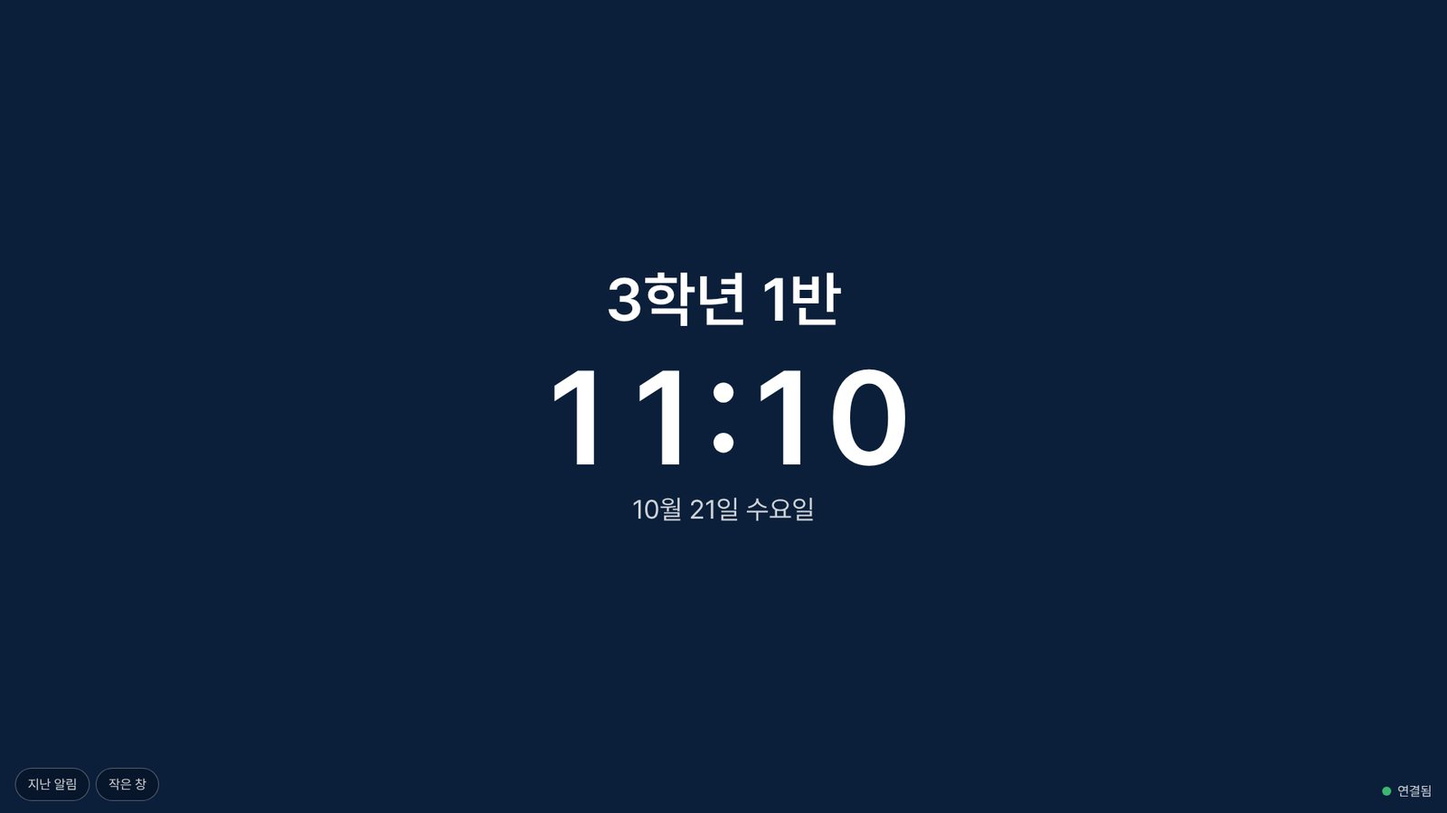
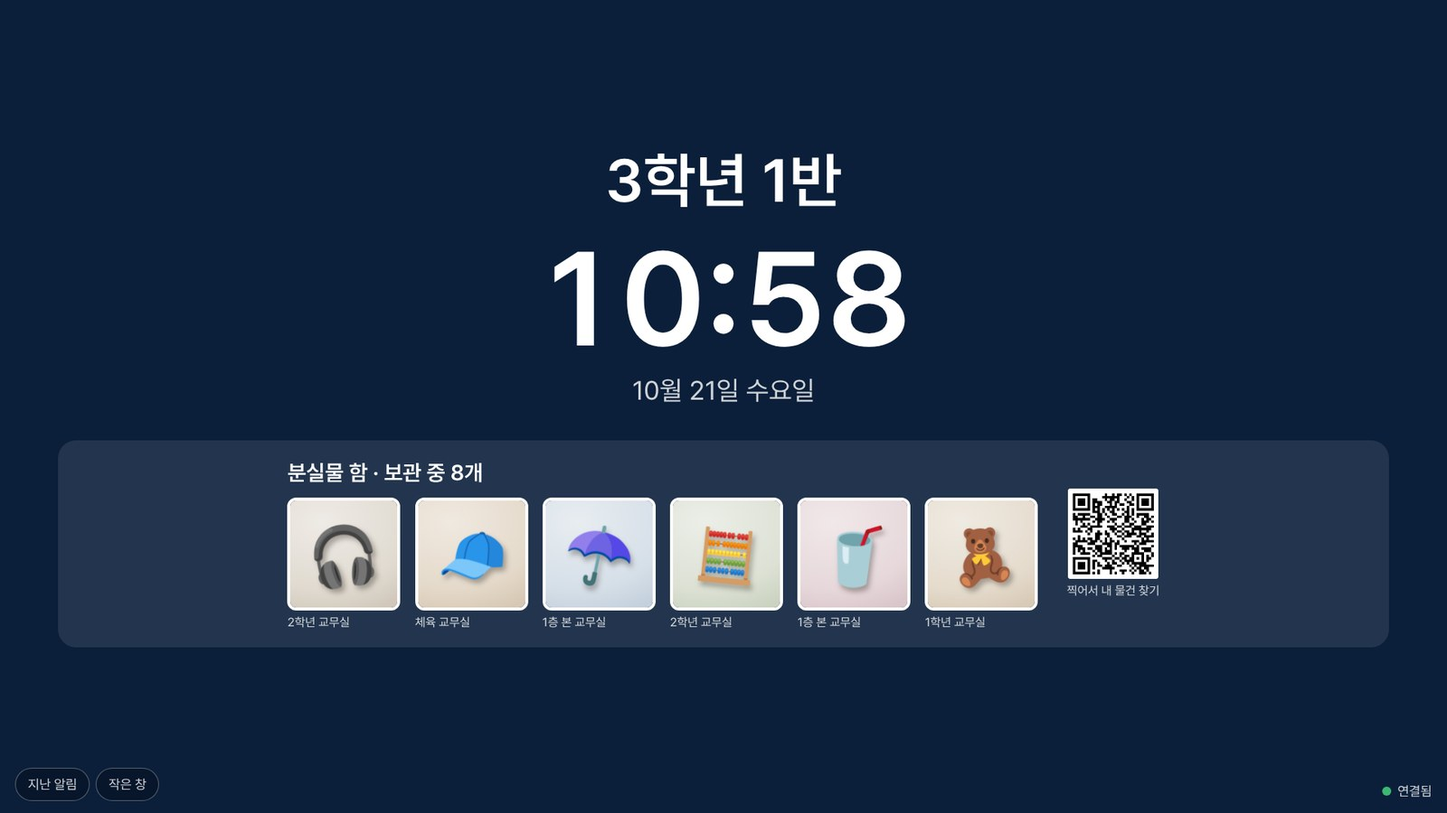
분실물 함 학생 보기·칠판 분실물 띠, 손 서명 그리기 고침 반영(10월 17일 저녁)
- 다시 찍은 화면: 분실물 함(학생용 보기 링크·보관 장소 처음 값), 학생용 보기(새),
  칠판 대기 화면 분실물 띠, 손 서명 그리기(새), 홈 카드 연파랑 띠, 구기대회 이긴 점수 파랑
- 연수 발표: 분실물 함과 구기대회를 두 장면으로 나눔, 실습 8에 서명 그리기 화면,
  교실 칠판 장면 「평소」에 분실물 띠
- 소개 발표·둘러보기: 「분실물 함」 장면 새로(학생은 칠판·QR, 특징은 안 보임),
  원칙 「사생활」에 한 줄
- 따라하기: 8부(학교 생활·마무리)도 싣기(첫 화면의 분실물 함 링크가 닿지 않던 것),
  안 될 때 두 가지(손 서명, 학생이 분실물을 찾으러 왔을 때)

Claude-Session: https://claude.ai/code/session_01PnRkvZMXyWQ3PDuECRmpn5

Changed region(s): [[0.1875, 0.3111, 0.8125, 0.7778], [0.4062, 0.1867, 0.5938, 0.28]]

diff --git a/img/rects.js b/img/rects.js
@@ -1,3 +1,3 @@
 /* 화면마다 동그라미 칠 자리(412×864 기준, 찍을 때 잰 값) — R(화면, 키) */
-window.SHOT_RECTS = {"ai-deep": {"answer": [16, 238, 323, 492], "deep": [219, 876, 177, 36], "feedback": [20, 736, 42, 36], "question": [73, 70, 323, 158]}, "ai-deep-ready": {"deep": [274, 497, 122, 36], "file": [16, 405, 380, 38], "input": [68, 545, 249, 70], "send": [325, 567, 71, 48]}, "ai-home": {"chip_first": [31, 252, 100, 36], "chips": [31, 252, 350, 120], "clip": [16, 475, 44, 48], "deep": [219, 405, 177, 36], "input": [68, 453, 249, 70], "send": [325, 475, 71, 48], "tab_ai": [166, 792, 81, 44]}, "ai-lesson": {"body": [31, 518, 350, 482], "card": [16, 270, 380, 844], "head": [17, 271, 378, 42], "question": [73, 70, 323, 75]}, "ai-lesson-2": {"body": [31, 46, 350, 482], "button": [31, 560, 117, 40]}, "ai-letter": {"body": [31, 643, 350, 274], "card": [16, 298, 380, 681], "head": [17, 299, 378, 42], "question": [73, 70, 323, 75]}, "ai-letter-2": {"body": [31, 276, 350, 274], "button": [31, 560, 159, 40], "feedback": [20, 619, 42, 36]}, "ai-library": {"answer": [16, 128, 323, 464], "feedback": [20, 598, 42, 36], "links": [92, 473, 39, 20], "question": [118, 70, 278, 48]}, "ai-nep": {"button": [31, 777, 87, 40], "card": [16, 298, 380, 532], "edit": [130, 788, 96, 17], "people": [31, 614, 350, 89], "question": [73, 70, 323, 75]}, "ai-number": {"button": [31, 492, 100, 40], "card": [16, 298, 380, 246], "question": [73, 70, 323, 75]}, "ai-parent": {"answer": [16, 156, 323, 409], "feedback": [20, 570, 42, 36], "question": [73, 70, 323, 75]}, "ai-repair": {"button": [31, 597, 100, 40], "card": [16, 270, 380, 379], "head": [17, 271, 378, 42], "question": [73, 70, 323, 75]}, "ai-swap": {"calendar": [31, 380, 82, 15], "card": [16, 326, 380, 752], "question": [73, 70, 323, 75]}, "alerts": {}, "board-alert": {"all": [175, 577, 90, 40], "fire": [150, 239, 113, 56], "kind": [266, 142, 112, 44], "offline": [31, 678, 350, 17], "presets": [31, 239, 350, 118], "submit": [31, 701, 350, 50]}, "board-alert-confirm": {"cancel": [16, 804, 136, 44], "go": [160, 804, 236, 44], "sheet": [0, 0, 412, 864], "text": [16, 717, 380, 75], "where": [16, 662, 380, 43]}, "board-grades": {"g1": [31, 539, 113, 40], "g2": [150, 539, 113, 40], "offline": [31, 610, 350, 17], "submit": [31, 633, 350, 50]}, "board-memo": {"body": [31, 239, 350, 86], "kind": [150, 142, 112, 44], "note": [31, 340, 350, 35], "submit": [31, 586, 350, 50]}, "board-pick": {"all": [16, 532, 380, 44], "done": [16, 798, 380, 50], "grid": [16, 588, 380, 94], "legend": [16, 694, 380, 35], "off": [170, 638, 71, 44], "tabs": [16, 477, 380, 43]}, "board-send": {"body": [31, 239, 350, 110], "kinds": [31, 139, 350, 50], "mine": [271, 493, 110, 40], "options": [31, 364, 350, 78], "submit": [31, 610, 350, 50], "what": [31, 209, 350, 23], "where": [31, 462, 350, 117]}, "board-sent": {"end": [31, 420, 52, 36], "live": [84, 392, 37, 17], "reserve": [294, 129, 87, 17], "tabs": [240, 60, 141, 42]}, "board-voice-rec": {"status": [43, 342, 326, 92], "stop": [283, 394, 86, 40]}, "calendar": {"today": [196, 394, 20, 20]}, "calendar-list": {}, "forms": {"trip": [17, 110, 378, 56]}, "home": {"bell": [360, 22, 44, 44], "changed": [339, 669, 29, 16], "hero": [16, 106, 380, 66], "nep": [61, 503, 179, 26], "now": [160, 611, 33, 16], "tabAi": [166, 792, 81, 44], "tabMore": [327, 792, 81, 61], "tabNep": [85, 792, 81, 61], "tiles": [275, 354, 121, 94], "tt": [31, 569, 93, 21]}, "home-3": {"alerts": [31, 16, 55, 21], "meal": [31, 376, 26, 21], "upcoming": [31, 533, 81, 21]}, "home-sports": {"card": [16, 16, 380, 493], "link": [16, 16, 380, 493]}, "library": {"chips": [72, 214, 52, 39], "pinned": [16, 282, 380, 95], "search": [52, 169, 331, 23], "write": [310, 720, 86, 48]}, "library-new": {"kind": [206, 440, 172, 36], "section": [31, 120, 350, 48], "submit": [31, 624, 350, 50], "title": [31, 210, 350, 48]}, "library-post": {"download": [31, 211, 350, 44]}, "library-search": {"result": [16, 282, 380, 95], "search": [52, 169, 331, 23]}, "login": {"go": [58, 554, 296, 50], "name": [58, 299, 296, 48], "pw": [58, 467, 296, 48]}, "lost-found": {"add": [126, 680, 161, 54], "box": [16, 77, 380, 680], "item": [184, 369, 81, 81], "returned": [281, 16, 115, 45]}, "lost-found-add": {"photo": [16, 157, 380, 212], "submit": [149, 875, 247, 45]}, "lost-found-detail": {"back": [16, 804, 380, 44], "info": [16, 542, 380, 138]}, "meals": {}, "more-2": {"lost": [17, 431, 378, 56], "noti": [17, 525, 378, 56], "sign": [17, 226, 378, 56], "signature": [17, 581, 378, 56]}, "nep-detail-ack": {"ack": [31, 464, 350, 50], "events": [31, 315, 350, 126], "urgent": [94, 91, 37, 22]}, "nep-detail-recv": {"attach": [31, 377, 350, 48], "done": [31, 448, 350, 50], "due": [31, 192, 350, 37]}, "nep-detail-sent": {"board": [43, 666, 326, 8], "due": [31, 192, 350, 37], "events": [31, 437, 350, 147]}, "nep-detail-sent-board": {"downloadAll": [253, 524, 128, 44], "left": [31, 398, 350, 114], "more": [31, 854, 68, 44], "progress": [31, 310, 350, 76], "remind": [31, 468, 350, 44]}, "nep-inbox": {"ackButton": [328, 401, 53, 44], "fab": [281, 720, 115, 48], "segments": [19, 80, 187, 44], "tabNep": [85, 792, 81, 61], "todo": [17, 140, 378, 527]}, "nep-me-bottom": {"due": [31, 335, 350, 48], "send": [31, 656, 350, 50]}, "nep-me-new": {"audience": [31, 91, 350, 23], "body": [31, 446, 350, 170], "kind": [208, 221, 83, 44], "title": [31, 353, 350, 48]}, "nep-new-due": {"due": [31, 242, 350, 48], "hint": [31, 298, 350, 111], "more": [31, 425, 350, 123], "sendAt": [31, 592, 350, 48]}, "nep-picker": {"chipAll": [61, 209, 95, 40], "chipHeads": [162, 209, 82, 40], "chipLeads": [250, 209, 112, 40], "chips": [16, 209, 39, 40], "deptCheck": [16, 734, 40, 48], "recent": [16, 259, 380, 271], "search": [16, 155, 380, 44], "tree": [16, 530, 380, 1032]}, "nep-picker-picked": {"done": [338, 808, 58, 44], "tokens": [16, 259, 380, 36]}, "nep-picker-search": {"found": [16, 685, 380, 71], "search": [16, 581, 380, 44]}, "nep-picker-tree": {"dept": [16, 118, 40, 48], "me": [16, 359, 380, 48], "subjects": [16, 897, 40, 48]}, "nep-sent": {"active": [17, 250, 378, 318], "firstActive": [17, 288, 378, 99], "scheduled": [17, 140, 378, 109], "segments": [206, 80, 187, 44]}, "notifications-off": {"nurse": [333, 308, 48, 28], "on": [62, 147, 319, 44]}, "notifications-on": {"nurse": [333, 390, 48, 28], "test": [63, 177, 318, 44]}, "nurse": {"open": [31, 139, 350, 50]}, "password": {"go": [31, 297, 350, 50], "new": [31, 121, 350, 48]}, "pg-month": {"row": [16, 392, 380, 118], "summary": [16, 257, 380, 123], "toggle": [16, 139, 380, 54]}, "pg-today": {"card": [16, 229, 380, 142], "date": [68, 139, 216, 44], "save": [309, 703, 87, 44], "segment": [16, 77, 380, 50]}, "record": {"privacy": [16, 44, 274, 17]}, "record-activities": {"activities": [31, 174, 350, 429], "subject": [31, 91, 350, 48]}, "record-input": {"count": [31, 416, 350, 48], "tabs": [16, 95, 380, 50], "upload": [31, 500, 350, 23]}, "record-kinds": {"gwasetuk": [31, 247, 69, 21]}, "record-options": {"generate": [31, 390, 350, 50], "length": [31, 62, 350, 23], "model": [31, 307, 350, 48]}, "record-result": {"basis": [31, 533, 350, 113], "result": [31, 330, 350, 166]}, "sign-file": {"doc": [312, 103, 56, 21], "sign": [31, 181, 252, 48]}, "sign-list": {"file": [30, 89, 157, 26], "meeting": [226, 90, 155, 26], "todo": [16, 166, 380, 23]}, "sign-meeting": {"hand": [295, 141, 71, 17], "roster": [17, 234, 378, 464], "sign": [31, 126, 252, 48]}, "sign-meeting-new": {"chips": [76, 455, 95, 40], "picker": [31, 401, 350, 44], "title": [31, 120, 350, 48], "when": [31, 212, 169, 48]}, "sign-meeting-new-bottom": {"group": [71, 452, 310, 48], "me": [31, 617, 350, 21], "members": [31, 511, 350, 62], "submit": [31, 705, 350, 44]}, "sign-mine": {}, "signature": {"default": [267, 96, 112, 21], "hand": [16, 77, 380, 302], "stamp": [16, 391, 380, 302]}, "signature-empty": {"draw": [33, 318, 100, 44], "stamp": [33, 633, 130, 44]}, "sports": {}, "sub-calc": {"calendar": [31, 466, 350, 21], "date": [31, 316, 169, 44], "go": [31, 501, 350, 44], "periods": [31, 374, 350, 113], "reason": [212, 316, 169, 44], "tabs": [16, 77, 380, 50], "teacher": [31, 229, 350, 44]}, "sub-dates": {"byHand": [278, 520, 71, 17], "dates": [43, 117, 255, 68], "request": [31, 508, 235, 40], "tools": [31, 460, 350, 36]}, "sub-inbox": {"pending": [16, 264, 380, 21], "proxy": [31, 599, 220, 40], "register": [16, 139, 380, 44], "rooms": [16, 191, 380, 65], "tab": [268, 80, 125, 44]}, "sub-requests": {"accept": [31, 611, 185, 40], "byHand": [228, 623, 71, 17], "card": [16, 407, 380, 257], "reject": [307, 611, 56, 40], "tab": [206, 80, 187, 44]}, "sub-result": {"calendar": [31, 120, 350, 42], "date": [43, 317, 279, 40], "firstStep": [31, 264, 350, 23], "plan1": [31, 207, 350, 49]}, "today": {"board": [31, 90, 52, 21], "days": [178, 271, 42, 23], "mynep": [31, 926, 42, 21]}, "today-2": {"changes": [17, 302, 378, 46], "events": [31, 72, 69, 21]}, "tt-class": {"picker": [16, 135, 380, 44], "tabs": [16, 77, 380, 50]}, "tt-free": {"name": [31, 395, 60, 40], "rooms": [16, 212, 380, 123], "teachers": [16, 347, 380, 343]}, "tt-free-nep": {}, "tt-my": {"away": [191, 516, 61, 87], "band": [191, 226, 61, 87], "changed": [191, 606, 61, 68], "pending": [322, 317, 61, 68], "picker": [16, 135, 380, 44], "tabs": [16, 77, 380, 50], "today": [191, 389, 61, 68]}, "tt-pop": {"band": [191, 226, 61, 87], "pop": [29, 317, 354, 115]}, "weekly": {}};
+window.SHOT_RECTS = {"ai-deep": {"answer": [16, 238, 323, 492], "deep": [219, 876, 177, 36], "feedback": [20, 736, 42, 36], "question": [73, 70, 323, 158]}, "ai-deep-ready": {"deep": [274, 497, 122, 36], "file": [16, 405, 380, 38], "input": [68, 545, 249, 70], "send": [325, 567, 71, 48]}, "ai-home": {"chip_first": [31, 252, 100, 36], "chips": [31, 252, 350, 120], "clip": [16, 475, 44, 48], "deep": [219, 405, 177, 36], "input": [68, 453, 249, 70], "send": [325, 475, 71, 48], "tab_ai": [166, 792, 81, 44]}, "ai-lesson": {"body": [31, 518, 350, 482], "card": [16, 270, 380, 844], "head": [17, 271, 378, 42], "question": [73, 70, 323, 75]}, "ai-lesson-2": {"body": [31, 46, 350, 482], "button": [31, 560, 117, 40]}, "ai-letter": {"body": [31, 643, 350, 274], "card": [16, 298, 380, 681], "head": [17, 299, 378, 42], "question": [73, 70, 323, 75]}, "ai-letter-2": {"body": [31, 276, 350, 274], "button": [31, 560, 159, 40], "feedback": [20, 619, 42, 36]}, "ai-library": {"answer": [16, 128, 323, 464], "feedback": [20, 598, 42, 36], "links": [92, 473, 39, 20], "question": [118, 70, 278, 48]}, "ai-nep": {"button": [31, 777, 87, 40], "card": [16, 298, 380, 532], "edit": [130, 788, 96, 17], "people": [31, 614, 350, 89], "question": [73, 70, 323, 75]}, "ai-number": {"button": [31, 492, 100, 40], "card": [16, 298, 380, 246], "question": [73, 70, 323, 75]}, "ai-parent": {"answer": [16, 156, 323, 409], "feedback": [20, 570, 42, 36], "question": [73, 70, 323, 75]}, "ai-repair": {"button": [31, 597, 100, 40], "card": [16, 270, 380, 379], "head": [17, 271, 378, 42], "question": [73, 70, 323, 75]}, "ai-swap": {"calendar": [31, 380, 82, 15], "card": [16, 326, 380, 752], "question": [73, 70, 323, 75]}, "alerts": {}, "board-alert": {"all": [175, 577, 90, 40], "fire": [150, 239, 113, 56], "kind": [266, 142, 112, 44], "offline": [31, 678, 350, 17], "presets": [31, 239, 350, 118], "submit": [31, 701, 350, 50]}, "board-alert-confirm": {"cancel": [16, 804, 136, 44], "go": [160, 804, 236, 44], "sheet": [0, 0, 412, 864], "text": [16, 717, 380, 75], "where": [16, 662, 380, 43]}, "board-grades": {"g1": [31, 539, 113, 40], "g2": [150, 539, 113, 40], "offline": [31, 610, 350, 17], "submit": [31, 633, 350, 50]}, "board-memo": {"body": [31, 239, 350, 86], "kind": [150, 142, 112, 44], "note": [31, 340, 350, 35], "submit": [31, 586, 350, 50]}, "board-pick": {"all": [16, 532, 380, 44], "done": [16, 798, 380, 50], "grid": [16, 588, 380, 94], "legend": [16, 694, 380, 35], "off": [170, 638, 71, 44], "tabs": [16, 477, 380, 43]}, "board-send": {"body": [31, 239, 350, 110], "kinds": [31, 139, 350, 50], "mine": [271, 493, 110, 40], "options": [31, 364, 350, 78], "submit": [31, 610, 350, 50], "what": [31, 209, 350, 23], "where": [31, 462, 350, 117]}, "board-sent": {"end": [31, 420, 52, 36], "live": [84, 392, 37, 17], "reserve": [294, 129, 87, 17], "tabs": [240, 60, 141, 42]}, "board-voice-rec": {"status": [43, 342, 326, 92], "stop": [283, 394, 86, 40]}, "calendar": {"today": [196, 394, 20, 20]}, "calendar-list": {}, "forms": {"trip": [17, 110, 378, 56]}, "found": {"first": [16, 115, 184, 281], "grid": [16, 115, 380, 1162], "head": [16, 24, 380, 75], "place": [28, 369, 160, 17]}, "home": {"bell": [360, 22, 44, 44], "changed": [339, 669, 29, 16], "hero": [16, 106, 380, 66], "nep": [61, 503, 179, 26], "now": [160, 611, 33, 16], "tabAi": [166, 792, 81, 44], "tabMore": [327, 792, 81, 61], "tabNep": [85, 792, 81, 61], "tiles": [275, 354, 121, 94], "tt": [31, 569, 93, 21]}, "home-3": {"alerts": [31, 16, 55, 21], "meal": [31, 376, 26, 21], "upcoming": [31, 533, 81, 21]}, "home-sports": {"card": [16, 16, 380, 493], "link": [16, 16, 380, 493]}, "library": {"chips": [72, 214, 52, 39], "pinned": [16, 282, 380, 95], "search": [52, 169, 331, 23], "write": [310, 720, 86, 48]}, "library-new": {"kind": [206, 440, 172, 36], "section": [31, 120, 350, 48], "submit": [31, 624, 350, 50], "title": [31, 210, 350, 48]}, "library-post": {"download": [31, 211, 350, 44]}, "library-search": {"result": [16, 282, 380, 95], "search": [52, 169, 331, 23]}, "login": {"go": [58, 554, 296, 50], "name": [58, 299, 296, 48], "pw": [58, 467, 296, 48]}, "lost-found": {"add": [126, 680, 161, 54], "box": [16, 77, 380, 680], "item": [185, 368, 81, 81], "note": [16, 757, 380, 46], "returned": [281, 16, 115, 45], "student": [272, 769, 55, 14]}, "lost-found-2": {"add": [126, 640, 161, 54], "note": [16, 717, 380, 46], "student": [272, 729, 55, 14]}, "lost-found-add": {"photo": [16, 157, 380, 212], "place": [16, 564, 380, 75], "submit": [149, 875, 247, 45]}, "lost-found-detail": {"back": [16, 804, 380, 44], "info": [16, 542, 380, 138]}, "meals": {}, "more-2": {"lost": [17, 431, 378, 56], "noti": [17, 525, 378, 56], "sign": [17, 226, 378, 56], "signature": [17, 581, 378, 56]}, "nep-detail-ack": {"ack": [31, 464, 350, 50], "events": [31, 315, 350, 126], "urgent": [94, 91, 37, 22]}, "nep-detail-recv": {"attach": [31, 377, 350, 48], "done": [31, 448, 350, 50], "due": [31, 192, 350, 37]}, "nep-detail-sent": {"board": [43, 666, 326, 8], "due": [31, 192, 350, 37], "events": [31, 437, 350, 147]}, "nep-detail-sent-board": {"downloadAll": [253, 524, 128, 44], "left": [31, 398, 350, 114], "more": [31, 854, 68, 44], "progress": [31, 310, 350, 76], "remind": [31, 468, 350, 44]}, "nep-inbox": {"ackButton": [328, 401, 53, 44], "fab": [281, 720, 115, 48], "segments": [19, 80, 187, 44], "tabNep": [85, 792, 81, 61], "todo": [17, 140, 378, 527]}, "nep-me-bottom": {"due": [31, 335, 350, 48], "send": [31, 656, 350, 50]}, "nep-me-new": {"audience": [31, 91, 350, 23], "body": [31, 446, 350, 170], "kind": [208, 221, 83, 44], "title": [31, 353, 350, 48]}, "nep-new-due": {"due": [31, 242, 350, 48], "hint": [31, 298, 350, 111], "more": [31, 425, 350, 123], "sendAt": [31, 592, 350, 48]}, "nep-picker": {"chipAll": [61, 209, 95, 40], "chipHeads": [162, 209, 82, 40], "chipLeads": [250, 209, 112, 40], "chips": [16, 209, 39, 40], "deptCheck": [16, 734, 40, 48], "recent": [16, 259, 380, 271], "search": [16, 155, 380, 44], "tree": [16, 530, 380, 1032]}, "nep-picker-picked": {"done": [338, 808, 58, 44], "tokens": [16, 259, 380, 36]}, "nep-picker-search": {"found": [16, 685, 380, 71], "search": [16, 581, 380, 44]}, "nep-picker-tree": {"dept": [16, 118, 40, 48], "me": [16, 359, 380, 48], "subjects": [16, 897, 40, 48]}, "nep-sent": {"active": [17, 250, 378, 318], "firstActive": [17, 288, 378, 99], "scheduled": [17, 140, 378, 109], "segments": [206, 80, 187, 44]}, "notifications-off": {"nurse": [333, 308, 48, 28], "on": [62, 147, 319, 44]}, "notifications-on": {"nurse": [333, 390, 48, 28], "test": [63, 177, 318, 44]}, "nurse": {"open": [31, 139, 350, 50]}, "password": {"go": [31, 297, 350, 50], "new": [31, 121, 350, 48]}, "pg-month": {"row": [16, 392, 380, 118], "summary": [16, 257, 380, 123], "toggle": [16, 139, 380, 54]}, "pg-today": {"card": [16, 229, 380, 142], "date": [68, 139, 216, 44], "save": [309, 703, 87, 44], "segment": [16, 77, 380, 50]}, "record": {"privacy": [16, 44, 274, 17]}, "record-activities": {"activities": [31, 174, 350, 429], "subject": [31, 91, 350, 48]}, "record-input": {"count": [31, 416, 350, 48], "tabs": [16, 95, 380, 50], "upload": [31, 500, 350, 23]}, "record-kinds": {"gwasetuk": [31, 247, 69, 21]}, "record-options": {"generate": [31, 390, 350, 50], "length": [31, 62, 350, 23], "model": [31, 307, 350, 48]}, "record-result": {"basis": [31, 533, 350, 113], "result": [31, 330, 350, 166]}, "sign-file": {"doc": [312, 103, 56, 21], "sign": [31, 181, 252, 48]}, "sign-list": {"file": [30, 89, 157, 26], "meeting": [226, 90, 155, 26], "todo": [16, 166, 380, 23]}, "sign-meeting": {"hand": [295, 141, 71, 17], "roster": [17, 234, 378, 464], "sign": [31, 126, 252, 48]}, "sign-meeting-new": {"chips": [76, 455, 95, 40], "picker": [31, 401, 350, 44], "title": [31, 120, 350, 48], "when": [31, 212, 169, 48]}, "sign-meeting-new-bottom": {"group": [71, 452, 310, 48], "me": [31, 617, 350, 21], "members": [31, 511, 350, 62], "submit": [31, 705, 350, 44]}, "sign-mine": {}, "signature": {"default": [267, 96, 112, 21], "hand": [16, 77, 380, 302], "stamp": [16, 391, 380, 302]}, "signature-draw": {"pad": [17, 567, 378, 224], "save": [338, 804, 58, 44]}, "signature-empty": {"draw": [33, 318, 100, 44], "stamp": [33, 633, 130, 44]}, "sports": {"bracket": [16, 77, 380, 262], "match": [29, 394, 354, 129], "rounds": [98, 352, 50, 32], "score": [116, 176, 17, 14]}, "sub-calc": {"calendar": [31, 466, 350, 21], "date": [31, 316, 169, 44], "go": [31, 501, 350, 44], "periods": [31, 374, 350, 113], "reason": [212, 316, 169, 44], "tabs": [16, 77, 380, 50], "teacher": [31, 229, 350, 44]}, "sub-dates": {"byHand": [278, 520, 71, 17], "dates": [43, 117, 255, 68], "request": [31, 508, 235, 40], "tools": [31, 460, 350, 36]}, "sub-inbox": {"pending": [16, 264, 380, 21], "proxy": [31, 599, 220, 40], "register": [16, 139, 380, 44], "rooms": [16, 191, 380, 65], "tab": [268, 80, 125, 44]}, "sub-requests": {"accept": [31, 611, 185, 40], "byHand": [228, 623, 71, 17], "card": [16, 407, 380, 257], "reject": [307, 611, 56, 40], "tab": [206, 80, 187, 44]}, "sub-result": {"calendar": [31, 120, 350, 42], "date": [43, 317, 279, 40], "firstStep": [31, 264, 350, 23], "plan1": [31, 207, 350, 49]}, "today": {"board": [31, 90, 52, 21], "days": [178, 271, 42, 23], "mynep": [31, 926, 42, 21]}, "today-2": {"changes": [17, 302, 378, 46], "events": [31, 72, 69, 21]}, "tt-class": {"picker": [16, 135, 380, 44], "tabs": [16, 77, 380, 50]}, "tt-free": {"name": [31, 395, 60, 40], "rooms": [16, 212, 380, 123], "teachers": [16, 347, 380, 343]}, "tt-free-nep": {}, "tt-my": {"away": [191, 516, 61, 87], "band": [191, 226, 61, 87], "changed": [191, 606, 61, 68], "pending": [322, 317, 61, 68], "picker": [16, 135, 380, 44], "tabs": [16, 77, 380, 50], "today": [191, 389, 61, 68]}, "tt-pop": {"band": [191, 226, 61, 87], "pop": [29, 317, 354, 115]}, "weekly": {}};
 window.R = function (s, k) { var a = (window.SHOT_RECTS[s] || {})[k]; if (!a) { if (window.console) console.warn('rect 없음', s, k); return null; } return a; };

diff --git a/scenes.js b/scenes.js
@@ -18,7 +18,7 @@
     { n: 5, name: "AI에게 부탁하기", color: "#b49cf2", isNew: true },
     { n: 6, name: "세특 도우미", color: "#e59a7a" },
     { n: 7, name: "전자칠판·자료실", color: "#79c6d9" },
-    { n: 8, name: "마무리", color: "#8fd0ff" }
+    { n: 8, name: "학교 생활·마무리", color: "#8fd0ff" }
   ]);
 
   // ── 장면 전용 스타일 ──
@@ -566,7 +566,7 @@
     ["5부", "AI 학습지·깊게 생각", "<b>학습지·퀴즈를 한글 파일</b>로, <b>깊게 생각하기</b>(하루 5번), 학부모 답장 초안."],
     ["1부", "AI가 먼저 챙겨요", "금요일 3시 <b>다음 주 미리 보기</b>, 평일 3시 반 <b>공유 드라이브 새 문서</b> 요약."],
     ["7부", "칠판 음성·자동 숨김", "<b>30초 음성 안내</b>, 여러 학년 함께, 수업 시작 30초 뒤 <b>칠판이 저절로 숨기</b>."],
-    ["8부", "분실물 함·구기대회", "사진이 <b>둥둥 떠다니는</b> 분실물 함, 대진표와 <b>경기 알림</b>."]
+    ["8부", "분실물 함·구기대회", "<b>둥둥 떠다니는</b> 분실물 함, 학생은 <b>칠판·QR</b>로. 대진표와 <b>경기 알림</b>."]
   ];
   D.add({
     id: "whatsnew", part: 0, label: "10월 셋째 주 새 기능", kind: "light", min: 1.2, isNew: true,
@@ -1006,12 +1006,13 @@
     chips: [{ t: "실습 8 · 서명" }, { t: "2분", c: "ghost" }], title: "내 서명 등록하기",
     steps: [
       { t: '더보기 맨 아래 <span class="q">「설정」</span>의 <span class="k">내 서명</span>', s: 0, r: R("more-2", "signature") },
-      { t: '<span class="k">서명 그리기</span>: 손가락으로 그리고 저장(가로로 돌리면 넓게)', s: 1, r: R("signature-empty", "draw"), z: 1.9 },
+      { t: '<span class="k">서명 그리기</span>를 누르고', s: 1, r: R("signature-empty", "draw"), z: 1.9 },
+      { t: '손가락으로 그리고 <span class="k">저장</span>(가로로 돌리면 넓게)', s: 2, r: R("signature-draw", "pad") },
       { t: '도장이 있으면 <span class="k">도장 사진 올리기</span>(흰 바탕은 저절로 지워짐)', s: 1, r: R("signature-empty", "stamp"), z: 1.9 },
-      { t: '<span class="q">「문서에 기본으로 씀」</span>이 붙은 것이 서명란에 들어갑니다', s: 2, r: R("signature", "default"), z: 1.95 }
+      { t: '<span class="q">「문서에 기본으로 씀」</span>이 붙은 것이 서명란에 들어갑니다', s: 3, r: R("signature", "default"), z: 1.95 }
     ],
     note: { html: "<span>서명은 <b>본인만</b> 보고 바꿀 수 있습니다(관리자도 못 봄). 서명부 화면에는 그림이 보이지 않고, 받는 PDF에만 들어갑니다.</span>" },
-    screens: [shot("more-2"), shot("signature-empty"), shot("signature")],
+    screens: [shot("more-2"), shot("signature-empty"), shot("signature-draw"), shot("signature")],
     notes: "더보기 → 내 서명. 손 서명을 그려 저장하고, 도장이 있으면 종이에 찍은 도장을 사진으로 올립니다. 둘 중 「문서에 기본으로 씀」이 붙은 것이 문서에 들어갑니다. 서명 그림은 <b>본인만 보고 바꿀 수 있고</b>, 서명부 화면에도 보이지 않고 내려받는 PDF에만 들어갑니다."
   });
 
@@ -1276,9 +1277,9 @@
 
   D.add({
     id: "boardTV", part: 7, label: "교실 칠판에는 이렇게", kind: "light", min: 1.5, isNew: true,
-    notes: "교실 칠판에는 이렇게 뜹니다. 평소엔 <b>반 이름과 큰 시계</b>. 안내는 사진이 위에 크게, 글은 아래. 아침 <b>8시 45분</b>에는 수업이 바뀐 반 칠판 귀퉁이에 「오늘 바뀐 수업」 쪽지가 저절로 붙습니다(사유 없이 교시·과목·교실만). 긴급은 빨간 전체 화면, 음성 안내에는 [다시 듣기]. 칠판 창 프로그램이 깔린 교실은 <b>수업 시작 30초 뒤 칠판이 저절로 숨고</b>, 수업 중에 온 안내는 구석 포스트잇으로만 뜹니다(마지막 그림은 이해를 돕는 합성 그림입니다).",
+    notes: "교실 칠판에는 이렇게 뜹니다. 평소엔 <b>반 이름과 큰 시계</b>, 그 아래 <b>분실물 띠</b>(보관 중인 물건 사진과 찾으러 갈 곳, 학생용 QR — 특징은 안 나옴). 안내는 사진이 위에 크게, 글은 아래. 아침 <b>8시 45분</b>에는 수업이 바뀐 반 칠판 귀퉁이에 「오늘 바뀐 수업」 쪽지가 저절로 붙습니다(사유 없이 교시·과목·교실만). 긴급은 빨간 전체 화면, 음성 안내에는 [다시 듣기]. 칠판 창 프로그램이 깔린 교실은 <b>수업 시작 30초 뒤 칠판이 저절로 숨고</b>, 수업 중에 온 안내는 구석 포스트잇으로만 뜹니다(마지막 그림은 이해를 돕는 합성 그림입니다).",
     html: '<div class="chiprow"><span class="chip new">NEW</span><span class="chip ghost">교실 칠판</span></div><h2 class="title" style="width:860px">교실 칠판에는 <em>이렇게</em> 뜹니다</h2>' +
-      '<ol class="steps bt">' + [["평소", "반 이름과 큰 시계"], ["안내", "사진은 위에 크게, 글은 아래"], ["8:45 쪽지", "수업이 바뀐 반에 「오늘 바뀐 수업」"], ["긴급", "빨간 전체 화면과 경보음"], ["음성", "「띵」 뒤 두 번, [다시 듣기]"], ["수업 중", "30초 뒤 숨고, 안내는 구석 포스트잇"]].map(function (x) { return "<li><span><b>" + x[0] + "</b> · " + x[1] + "</span></li>"; }).join("") + "</ol>" +
+      '<ol class="steps bt">' + [["평소", "반 이름·큰 시계, 아래 분실물 띠"], ["안내", "사진은 위에 크게, 글은 아래"], ["8:45 쪽지", "수업이 바뀐 반에 「오늘 바뀐 수업」"], ["긴급", "빨간 전체 화면과 경보음"], ["음성", "「띵」 뒤 두 번, [다시 듣기]"], ["수업 중", "30초 뒤 숨고, 안내는 구석 포스트잇"]].map(function (x) { return "<li><span><b>" + x[0] + "</b> · " + x[1] + "</span></li>"; }).join("") + "</ol>" +
       '<div class="abs tv"><div class="in">' + ["idle", "notice-photo", "memo", "alert", "voice", "inclass-composite"].map(function (n) { return '<img src="img/board/' + n + '.jpg" alt="">'; }).join("") + "</div></div>" +
       '<p class="abs tv-note">마지막 그림은 이해를 돕는 합성 그림 · 반·이름은 예시</p>',
     build: function (el, A) {
@@ -1320,18 +1321,32 @@
   // 8부 · 마무리
   // ════════════════════════════════════════════════════════════
   practice({
-    id: "school", part: 8, num: null, label: "학교 생활: 분실물 함·구기대회", min: 1.2, isNew: true, trans: "whip",
-    chips: [{ t: "NEW", c: "new" }, { t: "둘러보기", c: "ghost" }], title: "분실물 함과 <em>구기대회</em>",
+    id: "school", part: 8, num: null, label: "학교 생활: 분실물 함", min: 1.3, isNew: true, trans: "whip",
+    chips: [{ t: "NEW", c: "new" }, { t: "둘러보기", c: "ghost" }], title: "분실물 함, <em>선생님은 넣고 학생은 보고</em>",
     steps: [
       { t: '더보기 → <span class="k">분실물 함</span>: 사진이 물 위에 뜬 듯 <b>둥둥</b>', s: 0, r: R("lost-found", "box") },
-      { t: '<span class="k">분실물 넣기</span>: 사진 한 장, 종류·발견 장소·보관 장소', s: 1, r: R("lost-found-add", "photo") },
+      { t: '<span class="k">분실물 넣기</span>: 사진 한 장·종류·발견 장소. 보관 장소는 <b>지난번 적은 곳</b>이 미리 들어감', s: 1, r: R("lost-found-add", "place") },
       { t: '사진을 누르면 상세 → <span class="k">주인에게 돌려줬어요</span>', s: 2, r: R("lost-found-detail", "back") },
-      { t: '구기대회 기간엔 <b>대진표</b>와 오늘 경기, 결과', s: 3, r: [16, 170, 380, 260] },
-      { t: '홈에도 오늘 경기 카드. 그 교시 수업 선생님·담임께 <b>경기 알림</b>', s: 4, r: R("home-sports", "card") }
+      { t: '학생은 <b>교실 칠판의 분실물 띠</b>(QR)와 <span class="k">학생용 보기</span>로', s: 3, r: R("lost-found-2", "note") },
+      { t: '학생 화면엔 사진·장소·<span class="q">「찾으러 갈 곳」</span>만 — <b>특징은 안 보임</b>', s: 4, r: R("found", "first") }
     ],
-    gnote: { html: "<span>분실물 사진에는 학생 얼굴·이름표가 나오지 않게 물건만 찍어 주세요. 휴대폰을 기울이면 사진이 그쪽으로 흘러갑니다. 구기대회 메뉴는 대회가 있는 동안만 보이고, 우승 반 담임 선생님 홈에는 축하 꽃가루가 뜹니다.</span>" },
-    screens: [shot("lost-found"), shot("lost-found-add"), shot("lost-found-detail"), shot("sports"), shot("home-sports")],
-    notes: "학교라서 있는 기능 두 가지입니다. <b>분실물 함</b>은 10월 17일부터 모두에게 열렸습니다 — 사진이 물 위에 뜬 것처럼 떠다니고, 휴대폰을 기울이면 그쪽으로 흘러갑니다. 넣을 때는 사진 한 장과 종류·장소만, 돌려주면 「주인에게 돌려줬어요」. <b>구기대회</b>는 대회 기간에만 보이고, 체육과 선생님이 점수를 적으면 이긴 반이 저절로 올라가며, 경기 교시에 수업이 있는 선생님과 두 반 담임께 알림이 갑니다."
+    gnote: { html: "<span>사진에는 학생 얼굴·이름표가 나오지 않게 물건만 찍어 주세요. <b>특징 칸</b>은 주인 확인용이라 학생 화면·칠판에는 나오지 않습니다 — 찾으러 온 학생에게 특징을 물어보고 돌려주세요. 휴대폰을 기울이면 사진이 그쪽으로 흘러갑니다.</span>" },
+    screens: [shot("lost-found"), shot("lost-found-add"), shot("lost-found-detail"), shot("lost-found-2"), shot("found")],
+    notes: "<b>분실물 함</b>은 10월 17일부터 모두에게 열렸습니다. 사진이 물 위에 뜬 것처럼 떠다니고, 휴대폰을 기울이면 그쪽으로 흘러갑니다. 넣을 때는 사진 한 장과 종류·발견 장소, 보관 장소는 <b>선생님이 계신 교무실</b> — 한 번 적으면 다음부터 미리 들어갑니다. 돌려주면 「주인에게 돌려줬어요」. 학생들은 <b>교실 칠판 대기 화면 아래 분실물 띠</b>와 QR(학생용 보기)로 사진과 찾으러 갈 곳을 봅니다. 로그인 없이 열리지만 <b>특징 칸과 선생님 이름은 싣지 않으니</b>, 찾으러 온 학생에게 특징을 물어 확인하고 돌려주시면 됩니다."
+  });
+
+  practice({
+    id: "sports", part: 8, num: null, label: "학교 생활: 구기대회", min: 1, isNew: true,
+    chips: [{ t: "NEW", c: "new" }, { t: "둘러보기", c: "ghost" }], title: "구기대회, <em>대진표와 경기 알림</em>",
+    steps: [
+      { t: '대회 기간엔 <span class="k">구기대회</span>: 학년별 월드컵식 대진표', s: 0, r: R("sports", "bracket") },
+      { t: '경기 카드: <b>이긴 반 점수는 파랑</b>, 체육과 선생님이 적으면 다음 경기로 저절로', s: 0, r: R("sports", "match") },
+      { t: '홈에도 오늘 경기 카드(교시 알약)와 어제 결과', s: 1, r: R("home-sports", "card") },
+      { t: '그 교시 수업 선생님·두 반 담임께 <b>경기 알림</b>', s: 1, r: R("home-sports", "card") }
+    ],
+    gnote: { html: "<span>구기대회 메뉴는 대회가 있는 동안만 보입니다. 우승 반 담임 선생님 홈에는 사흘 동안 축하 꽃가루가 뜹니다.</span>" },
+    screens: [shot("sports"), shot("home-sports")],
+    notes: "<b>구기대회</b>는 대회 기간에만 보입니다. 체육과 선생님이 점수를 적으면 이긴 반이 다음 경기로 저절로 올라가고, 이긴 반 점수는 파랗게 보입니다. 홈에는 오늘 경기 카드가 뜨고, 경기 교시에 수업이 있는 선생님과 두 반 담임께 알림이 갑니다. 우승 반 담임 선생님 홈에는 축하 꽃가루가 뜹니다."
   });
 
     var DONE = ["로그인·앱 설치", "알림 켜기·알림함", "시간표·공강 선생님께 넵", "진도 모두 저장·한 달 도장판", "넵 보내고 처리", "내 서명 등록", "AI에게 묻고 카드로 부탁", "과세특 초안", "전자칠판 보내기 둘러보기", "자료실 찾기"];

diff --git a/intro-scenes.js b/intro-scenes.js
@@ -362,7 +362,7 @@
     ["함께 일하기", "#9fb3f0", "부탁하고, 받고, 서명하고", [["넵", "확인·업무·제출 요청과 현황"], ["전자서명", "회의 서명부·파일 서명"], ["자료실", "부서 자료·양식 한곳에"], ["신청", "가정통신문 번호·기기 수리"]]],
     ["수업", "#7fc8a9", "시간표에서 칠판까지", [["시간표", "빈 교실·공강인 선생님"], ["수업교체", "학사일정 반영 계산·신고서"], ["진도표", "오늘 적기·한 달 도장판"], ["전자칠판", "교실에 안내·쪽지·긴급·음성"]]],
     ["AI와 일하기", "#b49cf2", "읽고, 찾고, 초안까지", [["AI 도우미", "학교 자료를 찾아 답"], ["확인 카드", "번호·수리·넵·서명부·수업 자료"], ["먼저 챙기기", "다음 주 미리 보기·드라이브 요약"], ["세특 도우미", "생기부 문장 초안"]]],
-    ["학교 생활", "#f5a524", "학교라서 있는 것", [["구기대회", "대진표·경기 알림·우승 축하"], ["분실물 함", "사진이 둥둥 떠다니는 함"], ["보건실", "입실 알림·하루 정리"], ["축하", "받는 분 홈에만 꽃가루"]]]
+    ["학교 생활", "#f5a524", "학교라서 있는 것", [["구기대회", "대진표·경기 알림·우승 축하"], ["분실물 함", "떠다니는 사진 함, 학생은 칠판·QR로"], ["보건실", "입실 알림·하루 정리"], ["축하", "받는 분 홈에만 꽃가루"]]]
   ];
   D.add({
     id: "map", part: 0, label: "기능 한눈에", kind: "light", min: 1.5, tour: { title: "학교 하루에 생기는 일을 하나씩 옮겼습니다", html: '<div class="t-grid">' + MAP.map(function (g) { return '<div class="t-box" style="--c:' + g[1] + '"><b>' + g[0] + "</b><ul>" + g[3].map(function (f) { return "<li><b>" + f[0] + "</b> — " + f[1] + "</li>"; }).join("") + "</ul></div>"; }).join("") + "</div>" },
@@ -588,10 +588,10 @@
 
   D.add({
     id: "s-tv", part: 3, label: "교실 칠판 모습", kind: "light", min: 1.5,
-    tour: { title: "교실 칠판에는 이렇게", html: '<div class="t-grid">' + [["idle", "평소 — 반 이름과 큰 시계"], ["notice-photo", "안내 — 사진은 크게, 글은 아래"], ["memo", "8:45 — 수업이 바뀐 반에 「오늘 바뀐 수업」 쪽지"], ["alert", "긴급 — 빨간 전체 화면과 경보음"], ["voice", "음성 — 「띵」 뒤 두 번, [다시 듣기]"], ["inclass-composite", "수업 중 — 30초 뒤 숨고 안내는 구석 포스트잇(합성 그림)"]].map(function (x) { return '<div class="t-box"><img src="img/board/' + x[0] + '.jpg" alt="" loading="lazy" style="width:100%;border-radius:8px"><span>' + x[1] + "</span></div>"; }).join("") + "</div>" },
-    notes: "교실 칠판에는 이렇게 뜹니다. 평소엔 반 이름과 큰 시계. 안내는 사진이 위에 크게. 아침 8시 45분에는 <b>수업이 바뀐 반 칠판 귀퉁이에 「오늘 바뀐 수업」 쪽지가 저절로</b> 붙습니다(사유 없이 교시·과목·교실만). 긴급은 빨간 전체 화면, 음성 안내에는 [다시 듣기]. 칠판 창 프로그램이 깔린 교실은 수업이 시작하면 30초 뒤 칠판이 저절로 숨고, 수업 중에 온 안내는 구석 포스트잇으로만 뜹니다(마지막 그림은 합성). 교실 PC 화면보호기도 학교 보안 점검 기준을 지키며 칠판을 띄웁니다.",
+    tour: { title: "교실 칠판에는 이렇게", html: '<div class="t-grid">' + [["idle", "평소 — 반 이름·큰 시계, 아래 분실물 띠(사진·찾으러 갈 곳·학생용 QR)"], ["notice-photo", "안내 — 사진은 크게, 글은 아래"], ["memo", "8:45 — 수업이 바뀐 반에 「오늘 바뀐 수업」 쪽지"], ["alert", "긴급 — 빨간 전체 화면과 경보음"], ["voice", "음성 — 「띵」 뒤 두 번, [다시 듣기]"], ["inclass-composite", "수업 중 — 30초 뒤 숨고 안내는 구석 포스트잇(합성 그림)"]].map(function (x) { return '<div class="t-box"><img src="img/board/' + x[0] + '.jpg" alt="" loading="lazy" style="width:100%;border-radius:8px"><span>' + x[1] + "</span></div>"; }).join("") + "</div>" },
+    notes: "교실 칠판에는 이렇게 뜹니다. 평소엔 반 이름과 큰 시계, 그 아래 <b>분실물 띠</b>(보관 중인 물건 사진·찾으러 갈 곳·학생용 QR). 안내는 사진이 위에 크게. 아침 8시 45분에는 <b>수업이 바뀐 반 칠판 귀퉁이에 「오늘 바뀐 수업」 쪽지가 저절로</b> 붙습니다(사유 없이 교시·과목·교실만). 긴급은 빨간 전체 화면, 음성 안내에는 [다시 듣기]. 칠판 창 프로그램이 깔린 교실은 수업이 시작하면 30초 뒤 칠판이 저절로 숨고, 수업 중에 온 안내는 구석 포스트잇으로만 뜹니다(마지막 그림은 합성). 교실 PC 화면보호기도 학교 보안 점검 기준을 지키며 칠판을 띄웁니다.",
     html: chips([{ t: "수업" }, { t: "교실 칠판", c: "ghost" }]) + '<h2 class="title" style="width:860px">교실 칠판에는 <em>이렇게</em> 뜹니다</h2>' +
-      '<ol class="steps bt">' + [["평소", "반 이름과 큰 시계"], ["안내", "사진은 위에 크게, 글은 아래"], ["8:45 쪽지", "수업이 바뀐 반에 「오늘 바뀐 수업」"], ["긴급", "빨간 전체 화면과 경보음"], ["음성", "「띵」 뒤 두 번, [다시 듣기]"], ["수업 중", "30초 뒤 숨고, 안내는 구석 포스트잇"]].map(function (x) { return "<li><span><b>" + x[0] + "</b> · " + x[1] + "</span></li>"; }).join("") + "</ol>" +
+      '<ol class="steps bt">' + [["평소", "반 이름·큰 시계, 아래 분실물 띠"], ["안내", "사진은 위에 크게, 글은 아래"], ["8:45 쪽지", "수업이 바뀐 반에 「오늘 바뀐 수업」"], ["긴급", "빨간 전체 화면과 경보음"], ["음성", "「띵」 뒤 두 번, [다시 듣기]"], ["수업 중", "30초 뒤 숨고, 안내는 구석 포스트잇"]].map(function (x) { return "<li><span><b>" + x[0] + "</b> · " + x[1] + "</span></li>"; }).join("") + "</ol>" +
       '<div class="abs tv"><div class="in">' + ["idle", "notice-photo", "memo", "alert", "voice", "inclass-composite"].map(function (n) { return '<img src="img/board/' + n + '.jpg" alt="">'; }).join("") + "</div></div>" +
       '<p class="abs tv-note">마지막 그림은 이해를 돕는 합성 그림 · 반·이름은 예시</p>',
     build: function (el, A) {
@@ -695,17 +695,30 @@
   });
 
   show({
-    id: "s-life", part: 5, label: "분실물 함·구기대회·보건실", min: 1.5,
-    title: "분실물 함, 구기대회, <em>보건실</em>",
+    id: "s-lost", part: 5, label: "분실물 함", min: 1.3,
+    title: "분실물 함, <em>선생님은 넣고 학생은 보고</em>",
     steps: [
-      { t: '<b>분실물 함</b>: 사진이 물 위에 뜬 듯 둥둥, 휴대폰을 기울이면 흘러가요', s: 0, r: R("lost-found", "box") },
-      { t: '사진 한 장과 종류·장소만 — <b>학생 얼굴·이름표는 찍지 않게</b>', s: 1, r: R("lost-found-add", "photo") },
-      { t: '<b>구기대회</b>: 월드컵식 대진표, 점수를 적으면 이긴 반이 저절로', s: 2, r: [16, 100, 380, 300] },
-      { t: '홈 경기 카드 + 그 교시 수업 선생님·두 반 담임께 <b>경기 알림</b>', s: 3, r: R("home-sports", "card") },
-      { t: '<b>보건실 입실 알림</b>: 이름 없이 반·성별만, 오후 4시 하루 정리', s: 4, r: R("nurse", "open") }
+      { t: '사진만 물 위에 뜬 듯 <b>둥둥</b>, 휴대폰을 기울이면 그쪽으로 흘러가요', s: 0, r: R("lost-found", "box") },
+      { t: '넣을 땐 사진 한 장·종류·장소 — <b>학생 얼굴·이름표는 찍지 않게</b>', s: 1, r: R("lost-found-add", "photo") },
+      { t: '보관 장소는 <b>선생님이 계신 교무실</b>, 지난번 적은 곳이 미리', s: 1, r: R("lost-found-add", "place") },
+      { t: '학생은 교실 칠판의 <b>분실물 띠</b>와 QR로 — 로그인 없이', s: 2, r: R("lost-found-2", "note") },
+      { t: '학생 화면엔 사진·「찾으러 갈 곳」만, <b>특징·선생님 이름은 없음</b>', s: 3, r: R("found", "first") }
     ],
-    screens: ["lost-found", "lost-found-add", "sports", "home-sports", "nurse"],
-    notes: "분실물 함은 선생님들이 함께 보는 함입니다. 사진만 둥둥 떠다니고, 누르면 어디서 찾았는지, 주인에게 돌려주면 「돌려줬어요」. 구기대회 기간에는 대진표와 경기 알림이 오고, 우승 반 담임 선생님 홈에는 축하 꽃가루가 뜹니다. 보건실 입실 알림은 학생이 보건실에 들어오면 1분 안에 담임과 그 교시 교과 선생님께 반·성별만 알립니다."
+    screens: ["lost-found", "lost-found-add", "lost-found-2", "found"],
+    notes: "분실물 함은 선생님들이 함께 보는 함입니다. 사진만 둥둥 떠다니고, 누르면 어디서 찾았는지, 주인에게 돌려주면 「돌려줬어요」. 보관 장소는 각자 계신 교무실로 적고, 한 번 적으면 다음부터 미리 들어갑니다. 학생들은 <b>교실 칠판 대기 화면 아래 분실물 띠</b>와 QR로 사진과 찾으러 갈 곳을 봅니다. 로그인 없이 열리는 대신 <b>특징 칸(주인 확인용)과 선생님 이름은 싣지 않습니다</b> — 찾으러 온 학생에게 특징을 물어보고 돌려줍니다."
+  });
+
+  show({
+    id: "s-life", part: 5, label: "구기대회·보건실", min: 1.2,
+    title: "구기대회와 <em>보건실</em>",
+    steps: [
+      { t: '<b>구기대회</b>: 학년별 월드컵식 대진표', s: 0, r: R("sports", "bracket") },
+      { t: '점수를 적으면 이긴 반이 저절로 다음 경기로, <b>이긴 점수는 파랑</b>', s: 0, r: R("sports", "match") },
+      { t: '홈 경기 카드 + 그 교시 수업 선생님·두 반 담임께 <b>경기 알림</b>', s: 1, r: R("home-sports", "card") },
+      { t: '<b>보건실 입실 알림</b>: 이름 없이 반·성별만, 오후 4시 하루 정리', s: 2, r: R("nurse", "open") }
+    ],
+    screens: ["sports", "home-sports", "nurse"],
+    notes: "구기대회 기간에는 대진표와 경기 알림이 오고, 우승 반 담임 선생님 홈에는 축하 꽃가루가 뜹니다. 보건실 입실 알림은 학생이 보건실에 들어오면 1분 안에 담임과 그 교시 교과 선생님께 반·성별만 알립니다."
   });
 
   // ════════════════════════════════════════════════════════════
@@ -718,7 +731,7 @@
   });
 
   var PRINC = [
-    ["사생활", "자리를 비우는 까닭은 본인만", ["출장·연수 같은 <b>사유는 그 선생님 일정·홈에만</b>", "빼꼼·학급 시간표의 교체는 <b>이름 없이 과목만</b>", "넵 마감·넵 속 일정은 <b>보낸 분·받는 분에게만</b>", "조직표는 <b>연락처를 읽지 않음</b>"]],
+    ["사생활", "자리를 비우는 까닭은 본인만", ["출장·연수 같은 <b>사유는 그 선생님 일정·홈에만</b>", "빼꼼·학급 시간표의 교체는 <b>이름 없이 과목만</b>", "넵 마감·넵 속 일정은 <b>보낸 분·받는 분에게만</b>", "조직표는 <b>연락처를 읽지 않음</b>", "학생이 보는 분실물 화면엔 <b>특징·선생님 이름 없음</b>"]],
     ["보안", "교직원만, 필요한 만큼만", ["학교가 만든 계정, 첫 로그인에 <b>비밀번호 바꾸기</b>", "데이터베이스가 <b>활동 중인 교직원만</b> 읽게(휴직은 자료실만)", "로그인 <b>틀린 횟수 제한</b>", "교실 칠판마다 다른 <b>32자리 열쇠</b>"]],
     ["AI 원칙", "AI는 초안까지", ["보내기·등록·확정은 <b>늘 선생님이 누름</b>", "붙인 파일·드라이브 원문은 <b>저장하지 않음</b>", "답에 <b>바깥 링크·그림을 그리지 않음</b>(숨은 지시 막기)", "학생 이름·생기부 문장은 넣지 않도록 안내"]],
     ["읽기 쉬움", "누구나 같은 정보를", ["글자 단계 <b>12·13·15·17</b>, 휴대폰 먼저", "흐린 글씨도 <b>대비 4.8 : 1 이상</b>", "화면 낭독기 <b>이름표·오류 알림</b>", "움직임 줄이기 설정을 따름"]]

diff --git a/guide.html b/guide.html
@@ -128,6 +128,8 @@ footer { color: var(--muted); font-size: 13px; text-align: center; padding: 10px
     <details><summary>아래 탭에 「시간표」가 없어졌어요</summary><p>둘째 칸이 <b>「넵」</b>으로 바뀌었습니다(처리할 넵 수가 탭에 바로 붙어요). 시간표는 홈 「오늘 시간표」 카드의 <b>전체 보기</b>나 <b>더보기 → 도구 → 시간표</b>에서 엽니다.</p></details>
     <details><summary>글자와 글꼴이 바뀌었어요</summary><p>10월 17일 화면 정리로 글꼴이 <b>프리텐다드</b>로 바뀌고 글자가 한 단계 커졌습니다. 흐린 글씨도 더 진하게 보이도록 맞췄습니다.</p></details>
     <details><summary>「깊게 생각하기」는 몇 번 쓸 수 있나요?</summary><p>선생님마다 <b>하루 5번</b>입니다. 켜고 보낸 그 질문 하나에만 쓰이고, 다 쓰면 막지 않고 보통으로 답합니다. 질문은 모두 합쳐 하루 60개까지입니다.</p></details>
+    <details><summary>손 서명을 그려도 선이 안 보여요</summary><p>10월 15~16일에 생긴 문제로, <b>10월 17일에 고쳤습니다</b>. 앱을 한 번 닫았다 다시 열거나 새로 고침한 뒤 「서명 그리기」를 다시 눌러 주세요. 그래도 안 되면 교목실로 알려 주세요.</p></details>
+    <details><summary>학생이 분실물을 찾으러 왔어요</summary><p>학생용 보기와 교실 칠판에는 <b>특징 칸이 나오지 않습니다</b>. 학생에게 물건의 특징을 물어 상세의 특징과 맞으면 돌려주고 <b>「주인에게 돌려줬어요」</b>를 누릅니다. 잘못 눌렀으면 바로 뜨는 「되돌리기」나, 「돌려준 물건」 목록의 「다시 넣기」로 되돌립니다.</p></details>
     <details><summary>AI 도우미에 무엇을 넣으면 안 되나요?</summary><p>학생 이름과 실제 생기부 기록 문장은 넣지 않습니다. 질문은 외부 AI로 전송되며 하루 60개까지 물을 수 있습니다.</p></details>
   </section>
   <footer>AI 교무실 · 명지중학교 교직원 연수 자료 · 화면은 실제 앱을 예시 데이터로 띄워 찍은 것이라 학교·이름·내용은 지어낸 것입니다.</footer>
@@ -148,7 +150,7 @@ footer { color: var(--muted); font-size: 13px; text-align: center; padding: 10px
   // 부분별로 묶기: 파트 시작(opener)의 「이제는」 한 줄을 부분 소개로
   var parts = {};
   list.forEach(function (d) {
-    var p = d.part; if (!(p >= 1 && p <= 7)) return;
+    var p = d.part; if (!(p >= 1 && p <= 8)) return;
     parts[p] = parts[p] || { intro: null, items: [] };
     if (d.opener) parts[p].intro = d.opener;
     if (d.guide) parts[p].items.push(d);

diff --git a/index.html b/index.html
@@ -141,7 +141,8 @@ main { max-width: 1040px; margin: -26px auto 0; padding: 0 16px 60px; position: 
       <li><a href="guide.html#alerts">금요일 3시 「다음 주 미리 보기」, 평일 3시 반 공유 드라이브 새 문서 요약</a></li>
       <li><a href="guide.html#boardKinds">전자칠판 음성 안내(30초)·여러 학년 함께</a>, <a href="deck.html#45">수업 시작 30초 뒤 칠판이 저절로 숨기</a></li>
       <li><a href="guide.html#swap">수업교체 제출함: 교실 정하기·고치기·관리자 대신 수락</a></li>
-      <li><a href="guide.html#school">분실물 함(모두에게 공개)과 구기대회 대진표·경기 알림</a></li>
+      <li><a href="guide.html#school">분실물 함(모두에게 공개) — 학생은 교실 칠판의 분실물 띠와 QR 「학생용 보기」로</a>, <a href="guide.html#sports">구기대회 대진표·경기 알림</a></li>
+      <li><a href="guide.html#p8">손 서명 그리기 고침(10월 17일) — 그려도 선이 안 보이던 문제</a></li>
     </ul>
     <details class="older"><summary>10월 첫째·둘째 주에 바뀐 것</summary>
     <ul>
